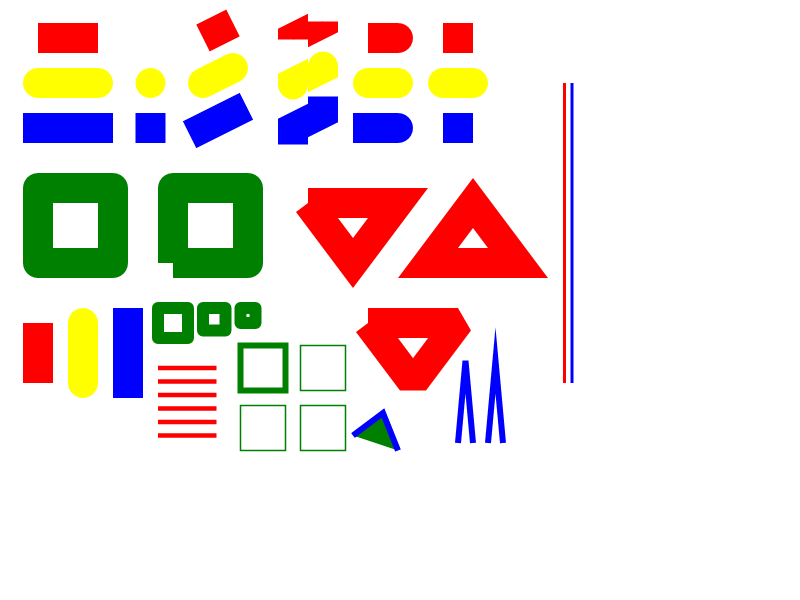
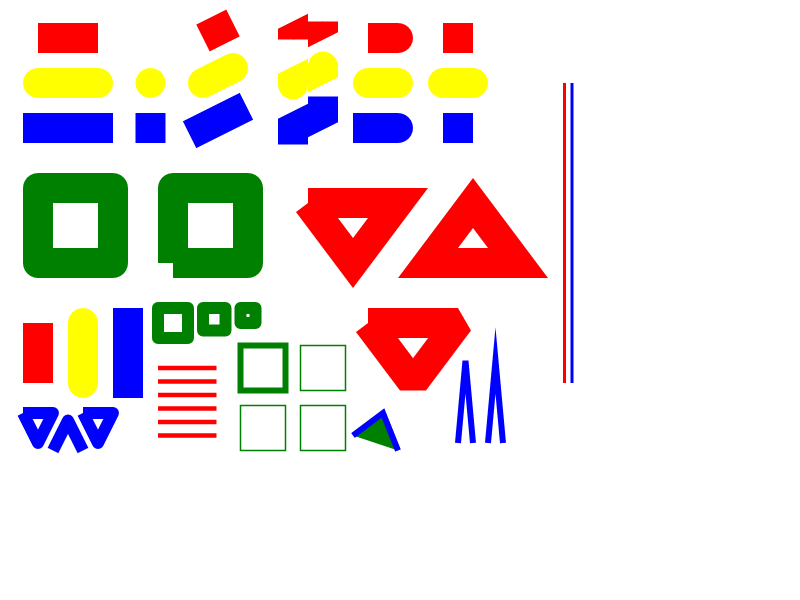
Tests/LibWeb: Add path with multiple segments to svg-stroke-styles.html

Changed region(s): [[0.0, 0.66, 0.1562, 0.75]]

diff --git a/Tests/LibWeb/Screenshot/svg-stroke-styles.html b/Tests/LibWeb/Screenshot/svg-stroke-styles.html
@@ -131,4 +131,11 @@ path:nth-of-type(3) {
   <path d="M230,285 L250,270 L260,295" stroke="blue" fill="green"
         style="stroke-width: 4" />
 
+  <!-- A single path with multiple segments (closed, open, closed): -->
+  <path d="M10,270 L20,290 L30,270 z
+           M30,295 L40,275 L50,295
+           M50,270 L60,290 L70,270 z"
+        stroke="blue" fill="none" stroke-linejoin="round"
+        style="stroke-width: 8"  />
+
 </svg>